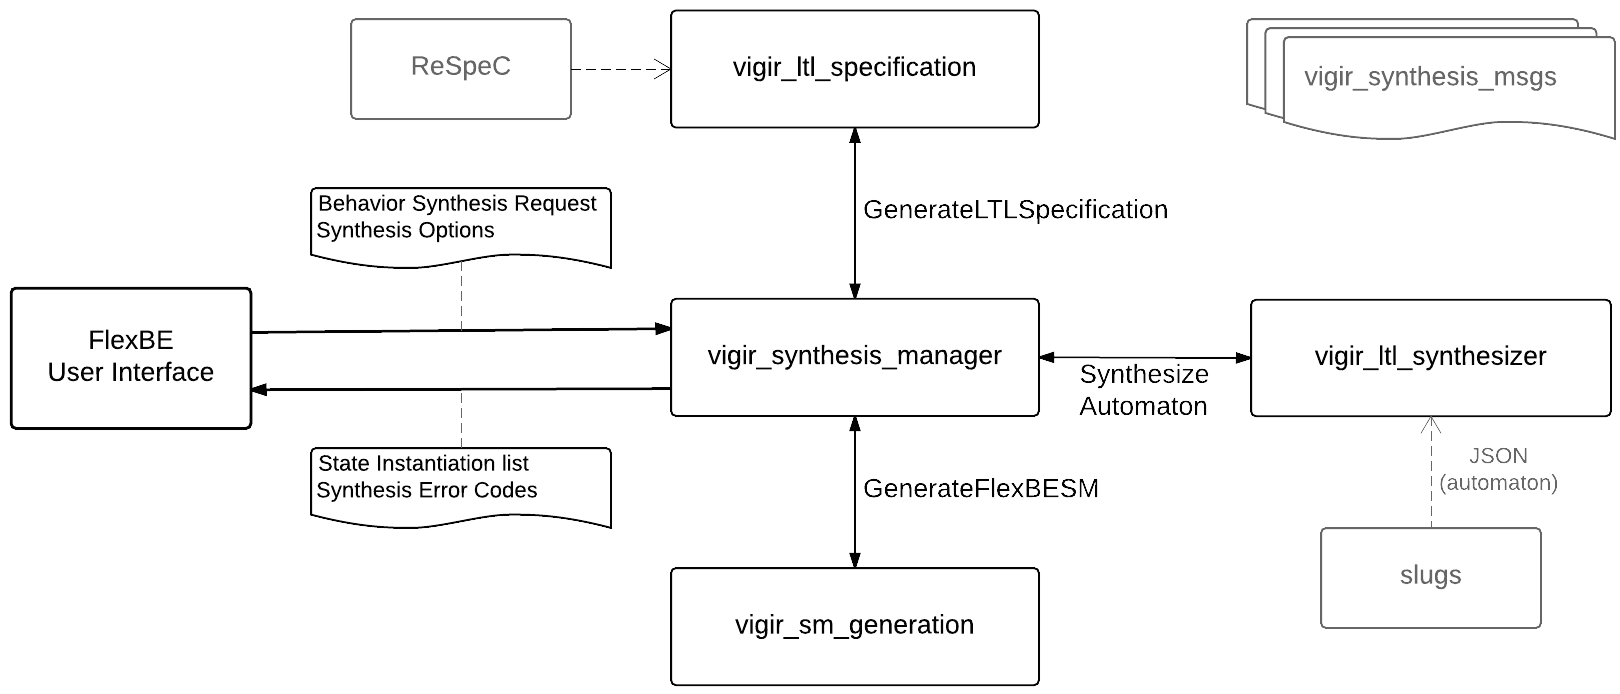
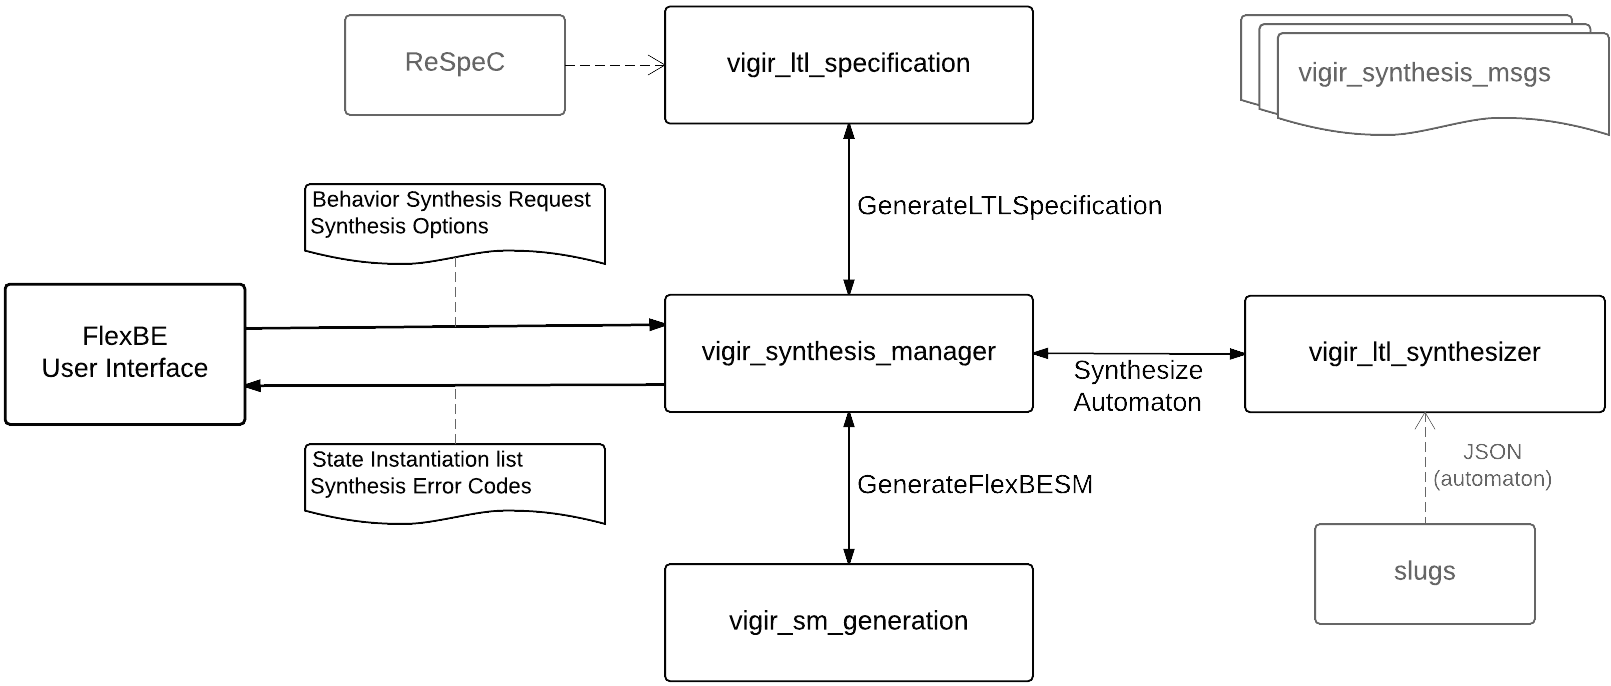
[implementation, img] Make ROS packages figure bigger

diff --git a/tex/implementation.tex b/tex/implementation.tex
@@ -6,7 +6,7 @@ Figure \ref{Fig:vigir_behavior_synthesis} depicts these packages as well as the 
 
 \begin{figure}[t]
 \centering
-\includegraphics[width=0.99\columnwidth,clip]{./img/behavior_synthesis_packages.png}
+\includegraphics[width=\columnwidth,clip]{./img/behavior_synthesis_packages.png}
 \caption{
 	Team ViGIR's ``Behavior Synthesis" ROS packages and the nominal workflow (clockwise, starting from the left).
 }
